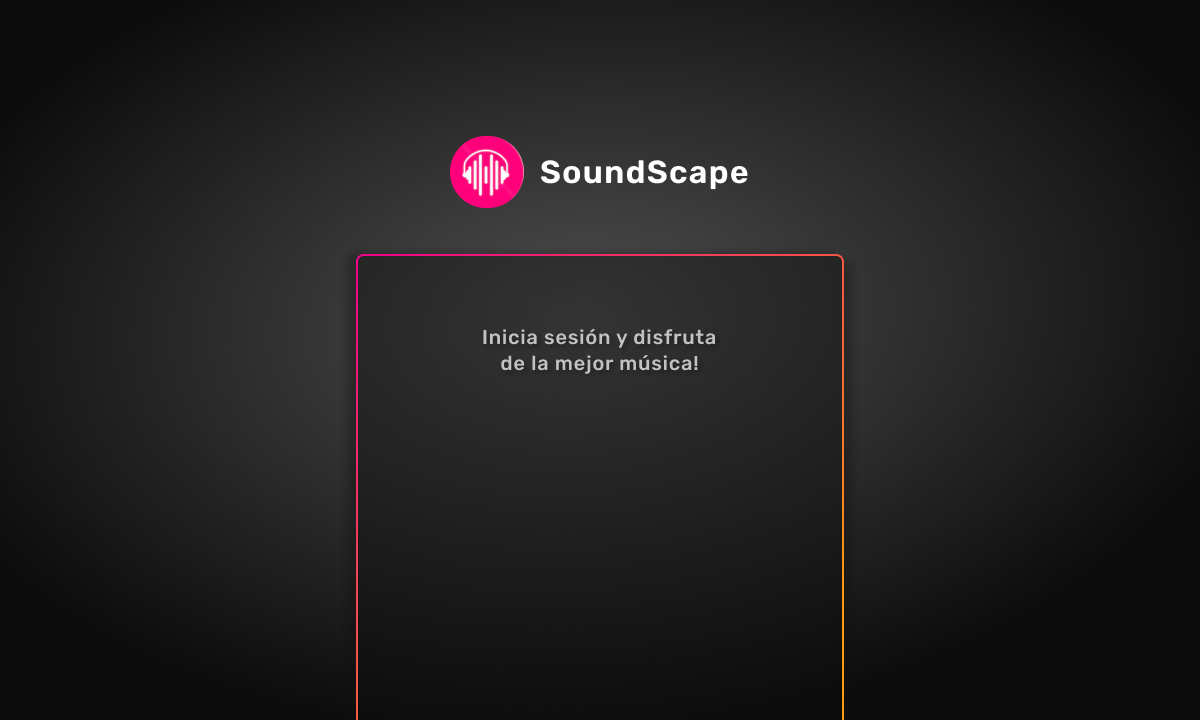
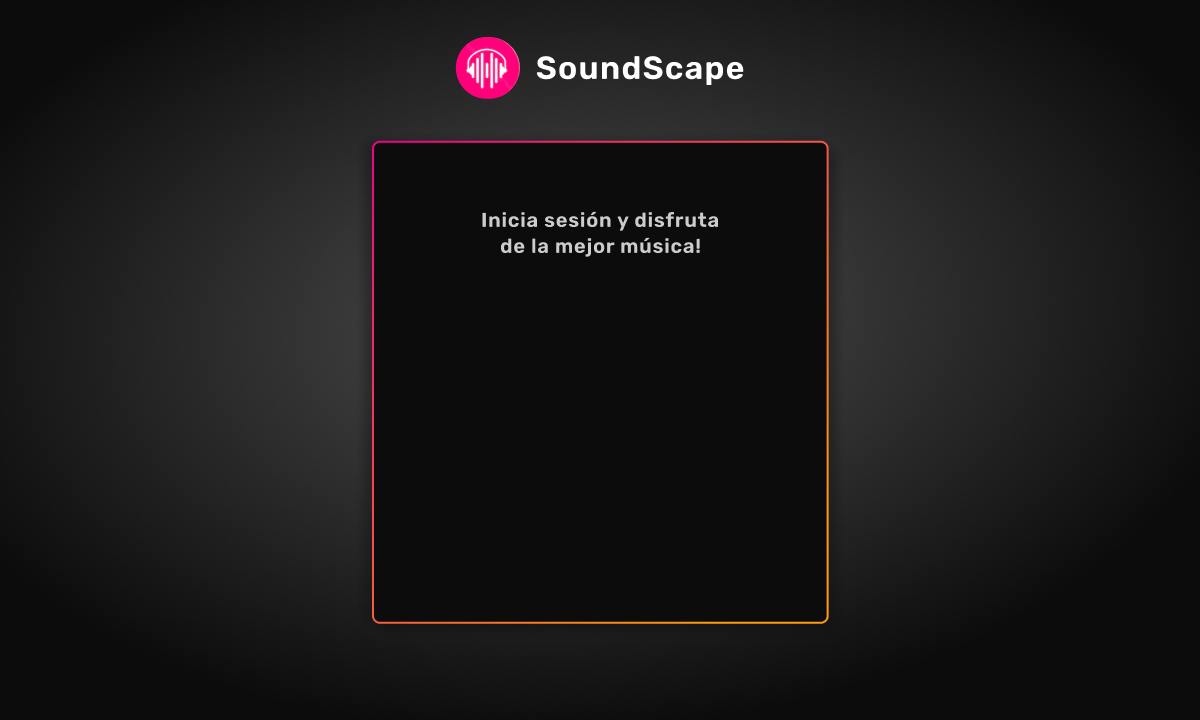
[MODIFY] Img del PanelLogin

Changed region(s): [[0.3083, 0.1833, 0.7092, 0.8861], [0.37, 0.0306, 0.6167, 0.1528]]

diff --git a/DestrozaSpotify/src/panel/PanelLogin.java b/DestrozaSpotify/src/panel/PanelLogin.java
@@ -41,26 +41,26 @@ public class PanelLogin extends JPanel {
 		JLabel lblUsuario = new JLabel("Usuario:");
 		lblUsuario.setHorizontalAlignment(SwingConstants.RIGHT);
 		lblUsuario.setFont(new Font("Verdana", Font.PLAIN, 14));
-		lblUsuario.setBounds(398, 430, 100, 28);
+		lblUsuario.setBounds(398, 322, 100, 28);
 		lblUsuario.setForeground(Color.decode("#FFFFFF"));
 		add(lblUsuario);
 
 		JLabel lblPassword = new JLabel("Contraseña:");
 		lblPassword.setForeground(Color.decode("#FFFFFF"));
 		lblPassword.setFont(new Font("Verdana", Font.PLAIN, 14));
-		lblPassword.setBounds(410, 496, 87, 28);
+		lblPassword.setBounds(410, 390, 87, 28);
 		add(lblPassword);
 
 		passwordField = new JPasswordField();
 		passwordField.setFont(new Font("Verdana", Font.PLAIN, 14));
 		passwordField.setBackground(new Color(239, 237, 237));
-		passwordField.setBounds(508, 496, 266, 28);
+		passwordField.setBounds(508, 390, 266, 28);
 		add(passwordField);
 
 		textFieldUsuario = new JTextField();
 		textFieldUsuario.setFont(new Font("Verdana", Font.PLAIN, 14));
 		textFieldUsuario.setBackground(new Color(239, 237, 237));
-		textFieldUsuario.setBounds(508, 430, 266, 28);
+		textFieldUsuario.setBounds(508, 322, 266, 28);
 		add(textFieldUsuario);
 		textFieldUsuario.setColumns(10);
 
@@ -92,7 +92,7 @@ public class PanelLogin extends JPanel {
 		btnIniciarSesion.setForeground(Color.decode("#FFFFFF"));
 		btnIniciarSesion.setBorderPainted(false);
 		btnIniciarSesion.setBackground(Color.decode("#ED028B"));
-		btnIniciarSesion.setBounds(536, 559, 170, 39);
+		btnIniciarSesion.setBounds(536, 456, 170, 39);
 		add(btnIniciarSesion);
 		
 
@@ -107,7 +107,7 @@ public class PanelLogin extends JPanel {
 			}
 		});
 		lblSinCuenta.setFont(new Font("Verdana", Font.PLAIN, 14));
-		lblSinCuenta.setBounds(522, 617, 211, 20);
+		lblSinCuenta.setBounds(522, 529, 211, 20);
 		lblSinCuenta.setForeground(new Color(255, 173, 13));
 		add(lblSinCuenta);
 		
